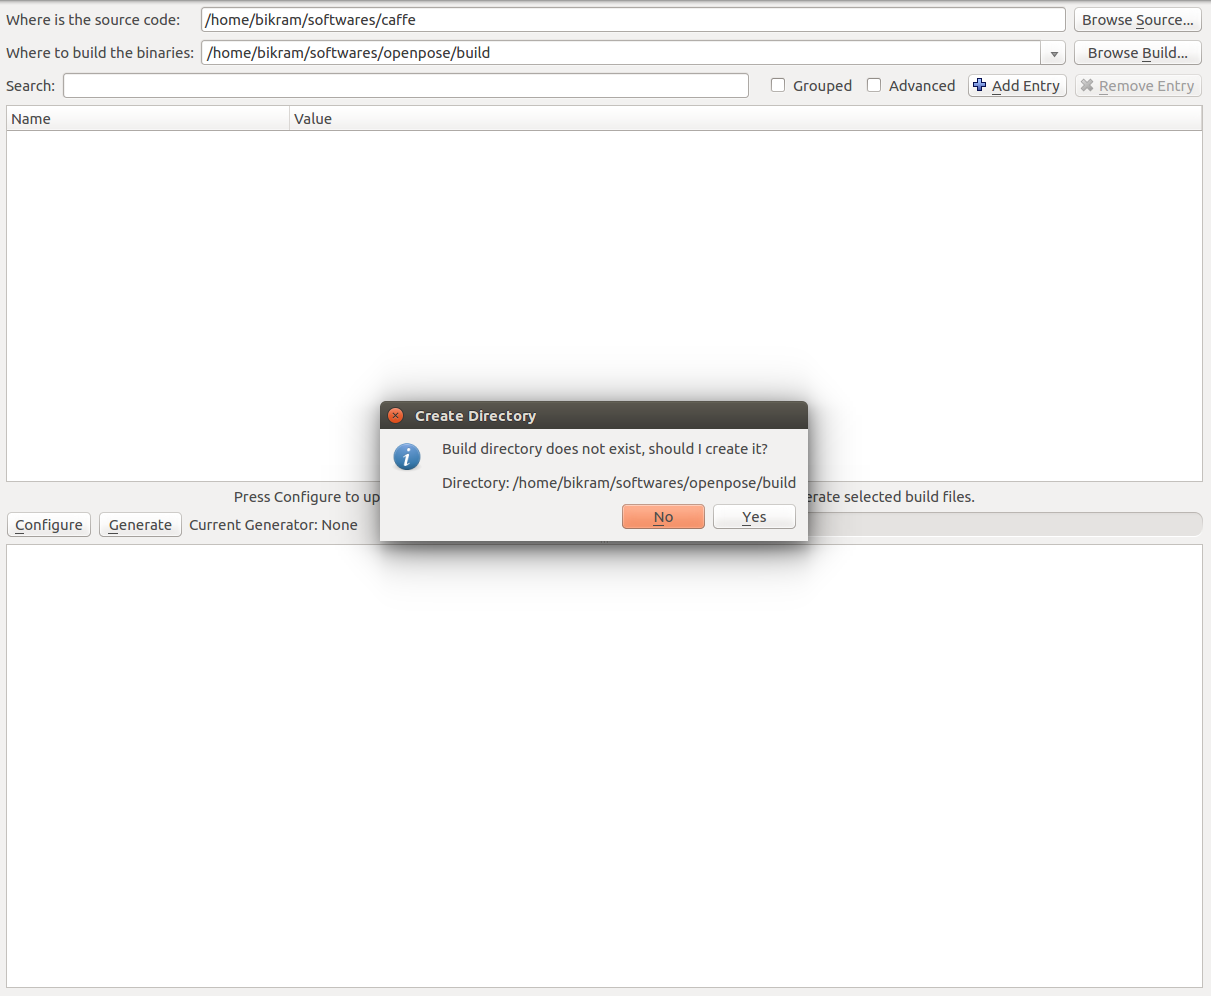
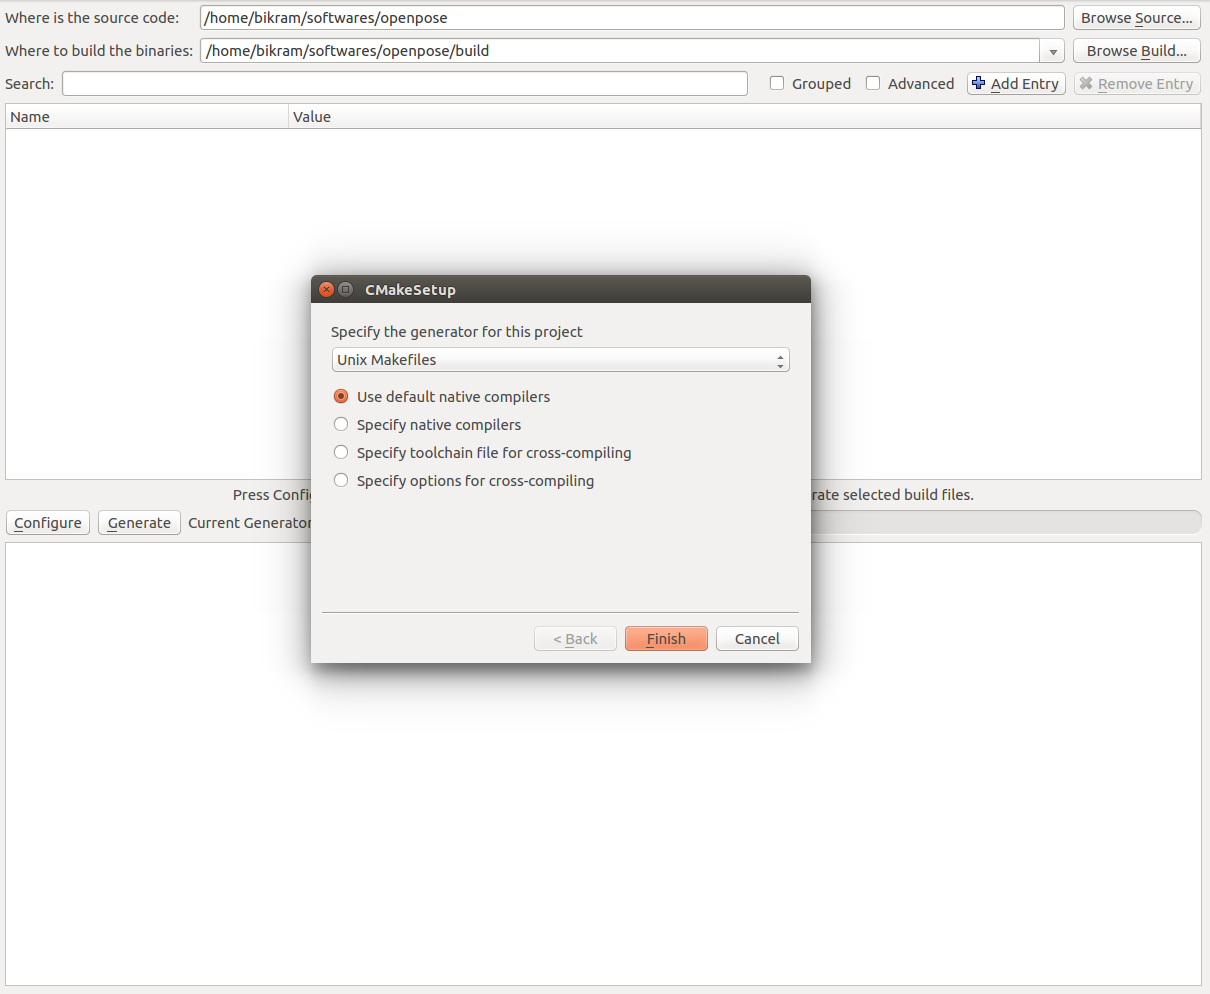
Updated CMake installation documentation

Changed region(s): [[0.0, 0.2495, 0.8256, 0.7173], [0.0, 0.0, 1.0, 0.1559]]

diff --git a/doc/cmake_installation.md b/doc/cmake_installation.md
@@ -1,7 +1,6 @@
 # Installation using CMake
 
-The instructions in this section describe the steps to build OpenPose using CMake. Currently, CMake support has only
-been tested on Ubuntu OS.
+The instructions in this section describe the steps to build OpenPose using CMake. Currently, CMake support has only been tested on Ubuntu 14 and Ubuntu 16.
 
 ## Clone the repository
 
@@ -17,60 +16,41 @@ Since currently, OpenPose uses Caffe under the hood -- most prerequisites are fo
 
 ## Generate the makefiles
 
-There are two ways to generate the makefiles, either using CMake GUI program or the command line.Both are described
+There are two ways to generate the makefiles, either using the CMake GUI program or the command line. Both are described
 succinctly in the sections below.
 
 ### CMake GUI
 
-* The first step is to open the CMake GUI.
- ![im_1](media/cmake_installation/im_1.png)
-
-* After opening the CMake GUI, the next step is to select the project source directory and a sub-directory where the makefiles will
+* The first step is to open the CMake GUI. After opening the CMake GUI, the next step is to select the project source directory and a sub-directory where the Makefiles will
 be generated. We will first select the openpose directory and then we will select a `build` directory in the project root directory as shown in the image below (See the red rectangle). If the `build` directory does not exists, CMake will create one for us.
-
-![im_2](media/cmake_installation/im_2.png)
-
+  
+  ![im_1](media/cmake_installation/im_1.png)
+  
 * Next press the `Configure` button in the GUI. It will first ask you to create the `build` directory, if it already did not exist. Press `Yes`.
-
-![im_3](media/cmake_installation/im_3.png)
-
+  
+  ![im_2](media/cmake_installation/im_2.png)
+  
 * Next a new dialog box will appear, press the `Finish` button here.
-
-![im_4](media/cmake_installation/im_4.png)
-
-* If it shows an error as shown below. It is perfect alright -- we'll fix it in the next step. If not, skip to building
-OpenPose.
-
-![im_5](media/cmake_installation/im_5.png)
-
-* The error probably occurred because CMake could not find the Caffe includes and the library. 
-
+  
+  ![im_3](media/cmake_installation/im_3.png)
+  
+* If this step is successful, in the bottom box it will show "Configuring done" (in the last line) as shown below --
+  
+  ![im_4](media/cmake_installation/im_4.png)
+  
+* To generate the Makefiles, press the `Generate` button and proceed to [building OpenPose](#build-the-library).
+  
 #### Caffe already present 
 
-* If Caffe is already installed, specify the Caffe includes path and the library as shown below. 
-
-![im_6](media/cmake_installation/im_6.png)
-
-* To generate the makefile, press the `Generate` button and proceed to building OpenPose.
-
-![im_7](media/cmake_installation/im_7.png)
-
-#### Caffe not present
-
-* If Caffe is not already there, the OpenPose build will do it for you. Just turn on the `BUILD_CAFFE` key as shown below.
-
-![im_8](media/cmake_installation/im_8.png)
-
-* To generate the makefile, press the `Generate` button and proceed to building OpenPose.
-
-![im_9](media/cmake_installation/im_9.png)
-
-SIDENOTE -- If you have OpenCV installed from source -- you can specify it using the `OPENCV_DIR` variable to the
-directory where you build OpenCV.
+* If Caffe is already installed and you do not want OpenPose to build Caffe, you can specify the Caffe include path and the library as shown below. You will also need to turn on the `WITH_CAFFE` variable and turn off the `BUILD_CAFFE` variable.
+  
+  ![im_6](media/cmake_installation/im_6.png)
+  
+SIDENOTE -- If you have OpenCV build from source and OpenPose cannot find it automatically -- you can set the `OPENCV_DIR` variable to the directory where you build OpenCV.
 
 ### Command Line build
 
-After cloning the next step is to create a build folder where we will build the library --
+Create a `build` folder in the root openpose folder, where you will build the library --
 
 ```bash
 cd openpose
@@ -78,29 +58,24 @@ mkdir build
 cd build
 ```
 
-The next step is to generate the makefiles. Now there can be multiple scenarios based on what the user already has e.x.
-Caffe might be already installed and the user might be interested in building OpenPose against the that version of Caffe
-instead of requiring OpenPose to build Caffe from scratch.
+The next step is to generate the Makefiles. Now there can be multiple scenarios based on what the user already has e.x. Caffe might be already installed and the user might be interested in building OpenPose against that version of Caffe instead of requiring OpenPose to build Caffe from scratch.
 
 #### SCENARIO 1 -- Caffe not installed and Opencv installed using `apt-get`
 
 In the build directory, run the below command --
 
 ```bash
-cmake -DBUILD_CAFFE=ON ..
+cmake ..
 ```
 
-#### SCENARIO 2 -- Caffe and OpenCV already installed
+#### SCENARIO 2 -- Caffe installed and OpenCV build from source
 
-In this example, we assume that Caffe and OpenCV are already present. The user needs to supply the paths of the library
-to CMake. For OpenCV, specify the `OpenCV_DIR` which is where the user built OpenCV. For Caffe, specify the includes
-directory and library using the `Caffe_INCLUDE_DIRS` and `Caffe_LIBS` variables. This will be where you installed Caffe.
-Below is an example of the same.
+In this example, we assume that Caffe and OpenCV are already present. The user needs to supply the paths of the library to CMake. For OpenCV, specify the `OpenCV_DIR` which is where the user build OpenCV. For Caffe, specify the include directory and library using the `Caffe_INCLUDE_DIRS` and `Caffe_LIBS` variables. This will be where you installed Caffe. Below is an example of the same.
 
 ```bash
 cmake -DOpenCV_DIR=/home/"${USER}"/softwares/opencv/build \
   -DCaffe_INCLUDE_DIRS=/home/"${USER}"/softwares/caffe/build/install/include \
-  -DCaffe_LIBS=/home/"${USER}"/softwares/caffe/build/install/lib/libcaffe.so ..
+  -DCaffe_LIBS=/home/"${USER}"/softwares/caffe/build/install/lib/libcaffe.so -DWITH_CAFFE=ON ..
 ```
 
 #### SCENARIO 3 -- OpenCV already installed
@@ -108,20 +83,21 @@ cmake -DOpenCV_DIR=/home/"${USER}"/softwares/opencv/build \
 If Caffe is not already present but OpenCV is, then use the below command.
 
 ```bash
-cmake -DOpenCV_DIR=/home/"${USER}"/softwares/opencv/build -DBUILD_CAFFE=ON
+cmake -DOpenCV_DIR=/home/"${USER}"/softwares/opencv/build
 ```
+
+The next step is to build OpenPose.
 
 ### Build the library 
 
-CMake has created the makefiles for us and the next step is to build the project. Make sure that you are in the `build`
-directory of the project and run the below 2 commands.
+CMake has created the Makefiles for us and the next step is to build the project. Make sure that you are in the `build` directory of the project and run the below 2 commands.
 
 ```
 no_cores=`cat /proc/cpuinfo | grep processor | wc -l`
 make -j${no_cores}
 ```
 
-# Run the OpenPose
+# Run the OpenPose demo
 
 Make sure that you are in the root directory of the project. Run the OpenPose demo using --
 
